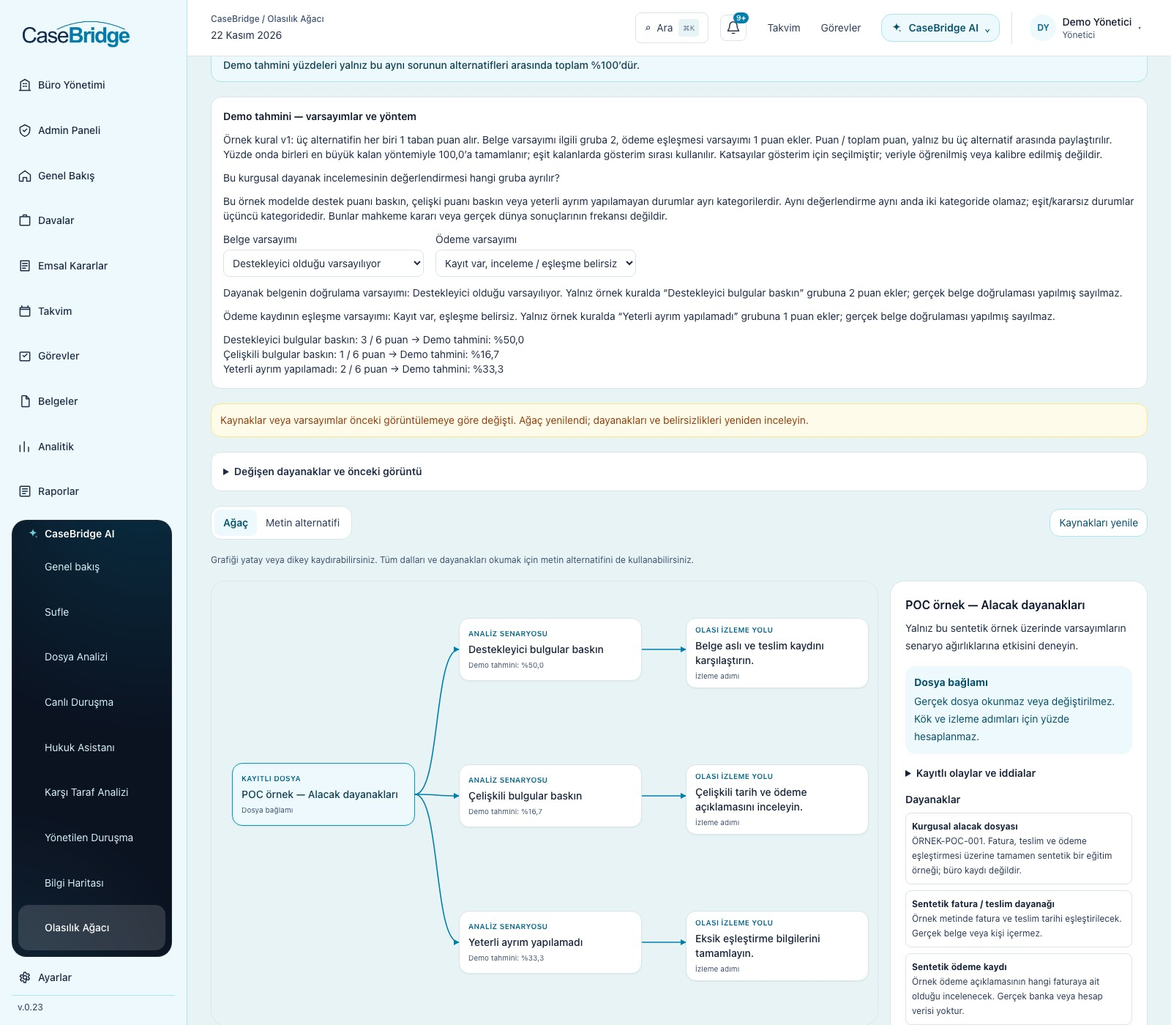
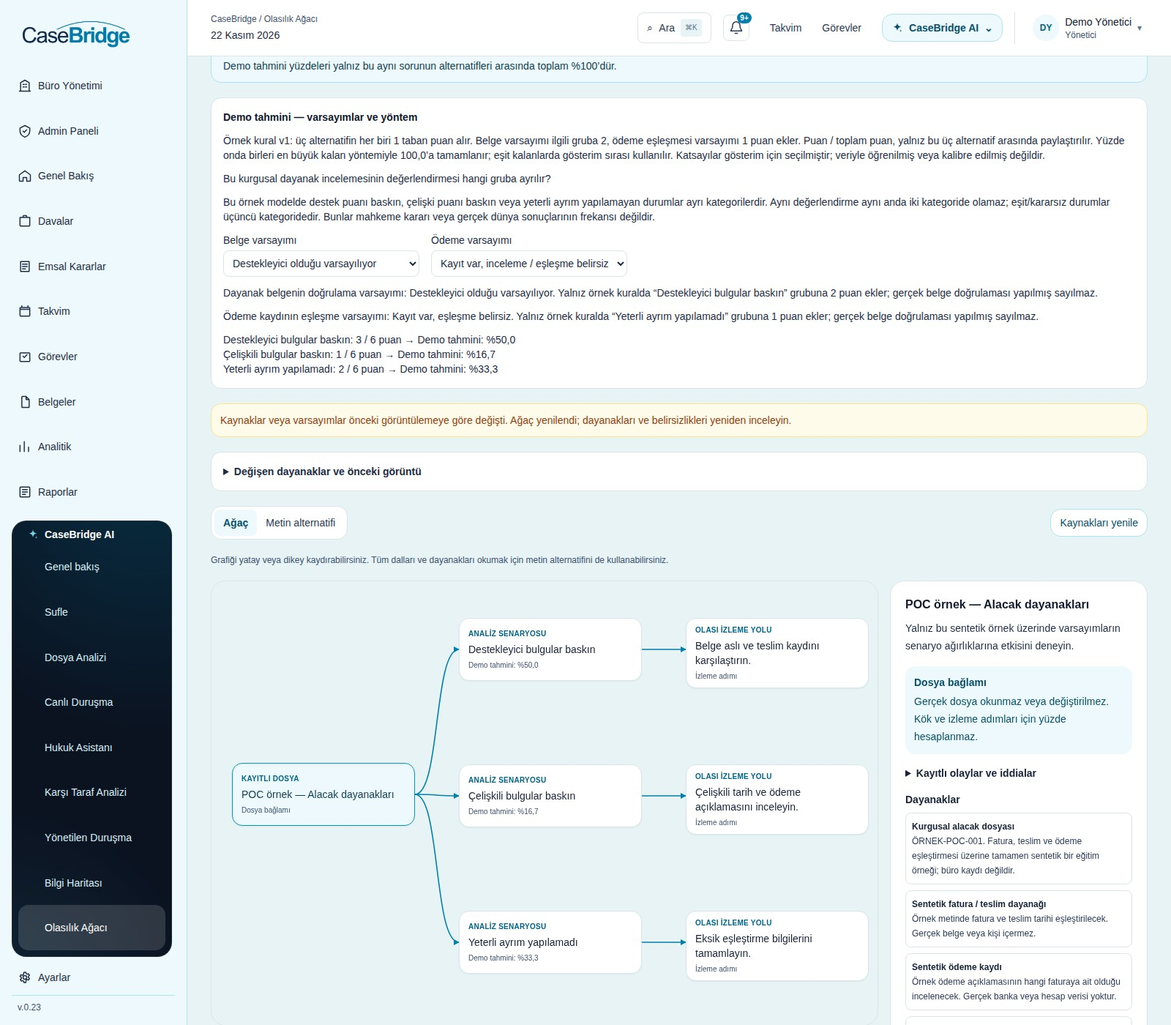
Refresh complete public product gallery v.0.48

diff --git a/web-page/index.html b/web-page/index.html
@@ -17,7 +17,7 @@
   <link rel="stylesheet" href="i18n.css?v=1">
   <link rel="stylesheet" href="pilot-results.css?v=1">
   <link rel="stylesheet" href="brand-refresh.css?v=0.11">
-  <meta name="casebridge-website-version" content="v.0.47">
+  <meta name="casebridge-website-version" content="v.0.48">
   <link rel="stylesheet" href="interactive-story.css?v=0.5">
   <script src="script.js?v=0.41" defer=""></script>
 
@@ -88,7 +88,7 @@
       <div class="business-heading"><div><p class="section-label">CaseBridge’in içinden</p><h2 id="product-title">Davanızı hazırlayın<br>Argümanınızı prova edin</h2></div><p>Bir davayı dört hukuki bakış açısından analiz edin, argümanlarınızı yapay zekâ karşı vekille çalışın ve hukuk asistanına soru sorun</p></div>
       <div class="capability-explorer" data-capability-explorer="">
         <div class="capability-tabs" role="tablist" aria-label="CaseBridge ürün özellikleri" aria-orientation="vertical"><button type="button" role="tab" id="capability-tab-12" aria-controls="capability-panel-12" aria-selected="true" tabindex="0" data-capability-tab=""><strong>Olasılık Ağacı</strong></button><button type="button" role="tab" id="capability-tab-1" aria-controls="capability-panel-1" aria-selected="false" tabindex="-1" data-capability-tab=""><strong>Yapay zekâ ile dava analizi</strong></button><button type="button" role="tab" id="capability-tab-2" aria-controls="capability-panel-2" aria-selected="false" tabindex="-1" data-capability-tab=""><strong>Konuşmayı prova edin</strong></button><button type="button" role="tab" id="capability-tab-3" aria-controls="capability-panel-3" aria-selected="false" tabindex="-1" data-capability-tab=""><strong>Delile itiraz edin</strong></button><button type="button" role="tab" id="capability-tab-4" aria-controls="capability-panel-4" aria-selected="false" tabindex="-1" data-capability-tab=""><strong>Provadan öğrenin</strong></button><button type="button" role="tab" id="capability-tab-5" aria-controls="capability-panel-5" aria-selected="false" tabindex="-1" data-capability-tab=""><strong>Hukuk asistanı</strong></button><button type="button" role="tab" id="capability-tab-6" aria-controls="capability-panel-6" aria-selected="false" tabindex="-1" data-capability-tab=""><strong>Dava ve belge yönetimi</strong></button><button type="button" role="tab" id="capability-tab-7" aria-controls="capability-panel-7" aria-selected="false" tabindex="-1" data-capability-tab=""><strong>Görevler ve duruşma takvimi</strong></button><button type="button" role="tab" id="capability-tab-8" aria-controls="capability-panel-8" aria-selected="false" tabindex="-1" data-capability-tab=""><strong>Raporlar ve devir</strong></button><button type="button" role="tab" id="capability-tab-9" aria-controls="capability-panel-9" aria-selected="false" tabindex="-1" data-capability-tab=""><strong>Hukuki zihin haritası</strong></button><button type="button" role="tab" id="capability-tab-10" aria-controls="capability-panel-10" aria-selected="false" tabindex="-1" data-capability-tab=""><strong>Karşı taraf analizi</strong></button><button type="button" role="tab" id="capability-tab-11" aria-controls="capability-panel-11" aria-selected="false" tabindex="-1" data-capability-tab=""><strong>Yönetilen duruşma</strong></button></div>
-        <div class="capability-screens"><div role="tabpanel" id="capability-panel-12" aria-labelledby="capability-tab-12" tabindex="0"><p class="capability-description">Dosya kayıtlarını ve son tamamlanmış analizdeki alternatif senaryoları dayanakları, koşullu gelişmeleri ve belirsizlikleriyle inceleyin. Kullanılabilir analiz yoksa genel hazırlık yolları açıkça belirtilir. Varsayıma bağlı Demo tahmini destek ağırlıklarını ve hesaplama yöntemini görün. Büro dosyalarındaki bağımsız 0–100 puanlar toplamlanmaz; sentetik örnekte yalnız aynı sorunun alternatifleri %100’e tamamlanır. Hukuki sonuç veya başarı garantisi değildir. <a href="https://app.casebridge.com.tr/ai/olasilik">Uygulamada Olasılık Ağacı’nı aç ↗</a></p><a class="feature-screen-link" data-feature-screen="" data-feature-title="Olasılık Ağacı" href="assets/feature-screens/tr-current/scenario-tree.jpg?v=0.47" target="_blank" rel="noopener" aria-label="Olasılık Ağacı ekran görüntüsünü tam boyutta aç"><img src="assets/feature-screens/tr-current/scenario-tree.jpg?v=0.47" loading="lazy" alt="Gerçek CaseBridge Olasılık Ağacı: kurgusal örnekte Demo tahmini yüzdeleri, varsayımlar ve dayanaklar"><span class="feature-screen-expand">Tam ekran görün ↗</span></a></div><div role="tabpanel" id="capability-panel-1" aria-labelledby="capability-tab-1" tabindex="0" hidden=""><p class="capability-description">Dosyayı araştırmacı, davacı vekili, davalı vekili ve hâkim bakış açılarından inceleyin. Destekleyici argümanları, zayıf yönleri, eksik bilgileri ve önerilen sonraki adımları görün.</p><a class="feature-screen-link" data-feature-screen="" data-feature-title="Yapay zekâ ile dava analizi" href="assets/feature-screens/tr-current/analysis.jpg?v=0.47" target="_blank" rel="noopener" aria-label="Yapay zekâ ile dava analizi ekran görüntüsünü tam boyutta aç"><img src="assets/feature-screens/tr-current/analysis.jpg?v=0.47" loading="lazy" alt="Gerçek CaseBridge uygulaması: Yapay zekâ ile dava analizi — kurgusal örnek veriler"><span class="feature-screen-expand">Tam ekran görün ↗</span></a></div><div role="tabpanel" id="capability-panel-2" aria-labelledby="capability-tab-2" tabindex="0" hidden=""><p class="capability-description">Sizin argümanınız, yapay zekâ karşı tarafın yanıtı ve hâkimin soruları</p><a class="feature-screen-link" data-feature-screen="" data-feature-title="Konuşmayı prova edin" href="assets/feature-screens/tr-current/conversation.jpg?v=0.47" target="_blank" rel="noopener" aria-label="Konuşmayı prova edin ekran görüntüsünü tam boyutta aç"><img src="assets/feature-screens/tr-current/conversation.jpg?v=0.47" loading="lazy" alt="Gerçek CaseBridge uygulaması: Konuşmayı prova edin — kurgusal örnek veriler"><span class="feature-screen-expand">Tam ekran görün ↗</span></a></div><div role="tabpanel" id="capability-panel-3" aria-labelledby="capability-tab-3" tabindex="0" hidden=""><p class="capability-description">İddiayı, itirazı ve yanıtı tek bir tutanakta takip edin.</p><a class="feature-screen-link" data-feature-screen="" data-feature-title="Delile itiraz edin" href="assets/feature-screens/tr-current/evidence.jpg?v=0.47" target="_blank" rel="noopener" aria-label="Delile itiraz edin ekran görüntüsünü tam boyutta aç"><img src="assets/feature-screens/tr-current/evidence.jpg?v=0.47" loading="lazy" alt="Gerçek CaseBridge uygulaması: Delile itiraz edin — kurgusal örnek veriler"><span class="feature-screen-expand">Tam ekran görün ↗</span></a></div><div role="tabpanel" id="capability-panel-4" aria-labelledby="capability-tab-4" tabindex="0" hidden=""><p class="capability-description">Delil kullanımını, itirazları ve sonraki hazırlık adımlarını inceleyin.</p><a class="feature-screen-link" data-feature-screen="" data-feature-title="Provadan öğrenin" href="assets/feature-screens/tr-current/evaluation.jpg?v=0.47" target="_blank" rel="noopener" aria-label="Provadan öğrenin ekran görüntüsünü tam boyutta aç"><img src="assets/feature-screens/tr-current/evaluation.jpg?v=0.47" loading="lazy" alt="Gerçek CaseBridge uygulaması: Provadan öğrenin — kurgusal örnek veriler"><span class="feature-screen-expand">Tam ekran görün ↗</span></a></div><div role="tabpanel" id="capability-panel-5" aria-labelledby="capability-tab-5" tabindex="0" hidden=""><p class="capability-description">Hukuki sorularınızı ayrı bir sohbette sorun; hazırlığınız ilerledikçe önceki konuşmalara geri dönün</p><a class="feature-screen-link" data-feature-screen="" data-feature-title="Hukuk asistanı" href="assets/feature-screens/tr-current/assistant.jpg?v=0.47" target="_blank" rel="noopener" aria-label="Hukuk asistanı ekran görüntüsünü tam boyutta aç"><img src="assets/feature-screens/tr-current/assistant.jpg?v=0.47" loading="lazy" alt="Gerçek CaseBridge uygulaması: Hukuk asistanı — kurgusal örnek veriler"><span class="feature-screen-expand">Tam ekran görün ↗</span></a></div><div role="tabpanel" id="capability-panel-6" aria-labelledby="capability-tab-6" tabindex="0" hidden=""><p class="capability-description">Tarafları, dava ayrıntılarını, yüklenen belgeleri ve tarihli gelişmeleri tek bir dava çalışma alanında tutun</p><a class="feature-screen-link" data-feature-screen="" data-feature-title="Dava ve belge yönetimi" href="assets/feature-screens/tr-current/case-documents.jpg?v=0.47" target="_blank" rel="noopener" aria-label="Dava ve belge yönetimi ekran görüntüsünü tam boyutta aç"><img src="assets/feature-screens/tr-current/case-documents.jpg?v=0.47" loading="lazy" alt="Gerçek CaseBridge uygulaması: Dava ve belge yönetimi — kurgusal örnek veriler"><span class="feature-screen-expand">Tam ekran görün ↗</span></a></div><div role="tabpanel" id="capability-panel-7" aria-labelledby="capability-tab-7" tabindex="0" hidden=""><p class="capability-description">Davaya bağlı görevler oluşturun, son tarih belirleyin ve tamamlanmasını takip edin. Duruşmaları ve görev tarihlerini takvimde görün.</p><a class="feature-screen-link" data-feature-screen="" data-feature-title="Görevler ve duruşma takvimi" href="assets/feature-screens/tr-current/calendar.jpg?v=0.47" target="_blank" rel="noopener" aria-label="Görevler ve duruşma takvimi ekran görüntüsünü tam boyutta aç"><img src="assets/feature-screens/tr-current/calendar.jpg?v=0.47" loading="lazy" alt="Gerçek CaseBridge uygulaması: Görevler ve duruşma takvimi — kurgusal örnek veriler"><span class="feature-screen-expand">Tam ekran görün ↗</span></a></div><div role="tabpanel" id="capability-panel-8" aria-labelledby="capability-tab-8" tabindex="0" hidden=""><p class="capability-description">Kaydedilen sonuçları ve büro analitiğini inceleyin. Başka bir avukatın dosyayı anlamasına yardımcı olacak bir dava devir özeti oluşturun.</p><a class="feature-screen-link" data-feature-screen="" data-feature-title="Raporlar ve devir" href="assets/feature-screens/tr-current/reports.jpg?v=0.47" target="_blank" rel="noopener" aria-label="Raporlar ve devir ekran görüntüsünü tam boyutta aç"><img src="assets/feature-screens/tr-current/reports.jpg?v=0.47" loading="lazy" alt="Gerçek CaseBridge uygulaması: Raporlar ve devir — kurgusal örnek veriler"><span class="feature-screen-expand">Tam ekran görün ↗</span></a></div><div role="tabpanel" id="capability-panel-9" aria-labelledby="capability-tab-9" tabindex="0" hidden=""><p class="capability-description">Yargıtay kararlarında birlikte anılan kanun maddelerini bilgi haritasında inceleyin. Bir maddeyi seçerek bağlantılı maddeleri ve karar bağlamını görün.</p><a class="feature-screen-link" data-feature-screen="" data-feature-title="Hukuki zihin haritası" href="assets/feature-screens/tr-current/knowledge-map.jpg?v=0.47" target="_blank" rel="noopener" aria-label="Hukuki zihin haritası ekran görüntüsünü tam boyutta aç"><img src="assets/feature-screens/tr-current/knowledge-map.jpg?v=0.47" alt="Gerçek CaseBridge uygulaması: Hukuki zihin haritası — yalıtılmış örnek kurulum" loading="lazy"><span class="feature-screen-expand">Tam ekran görün ↗</span></a></div><div role="tabpanel" id="capability-panel-10" aria-labelledby="capability-tab-10" tabindex="0" hidden=""><p class="capability-description">Davacı veya davalı açısından dosyadaki olası açıkları, karşı argümanları ve hukuki hamleleri kanun dayanaklarıyla birlikte inceleyin.</p><a class="feature-screen-link" data-feature-screen="" data-feature-title="Karşı taraf analizi" href="assets/feature-screens/tr-current/counter-analysis.jpg?v=0.47" target="_blank" rel="noopener" aria-label="Karşı taraf analizi ekran görüntüsünü tam boyutta aç"><img src="assets/feature-screens/tr-current/counter-analysis.jpg?v=0.47" alt="Gerçek CaseBridge uygulaması: Karşı taraf analizi — yalıtılmış örnek kurulum" loading="lazy"><span class="feature-screen-expand">Tam ekran görün ↗</span></a></div><div role="tabpanel" id="capability-panel-11" aria-labelledby="capability-tab-11" tabindex="0" hidden=""><p class="capability-description">Hâkim, iki vekil ve bilirkişinin yer aldığı duruşmada rol seçin. Sahneyi ilerletin, müdahaleleri deneyin ve rehberin sonraki hamle önerilerini inceleyin.</p><a class="feature-screen-link" data-feature-screen="" data-feature-title="Yönetilen duruşma" href="assets/feature-screens/tr-current/directed-trial.jpg?v=0.47" target="_blank" rel="noopener" aria-label="Yönetilen duruşma ekran görüntüsünü tam boyutta aç"><img src="assets/feature-screens/tr-current/directed-trial.jpg?v=0.47" alt="Gerçek CaseBridge uygulaması: Yönetilen duruşma — yalıtılmış örnek kurulum" loading="lazy"><span class="feature-screen-expand">Tam ekran görün ↗</span></a></div></div>
+        <div class="capability-screens"><div role="tabpanel" id="capability-panel-12" aria-labelledby="capability-tab-12" tabindex="0"><p class="capability-description">Dosya kayıtlarını ve son tamamlanmış analizdeki alternatif senaryoları dayanakları, koşullu gelişmeleri ve belirsizlikleriyle inceleyin. Kullanılabilir analiz yoksa genel hazırlık yolları açıkça belirtilir. Varsayıma bağlı Demo tahmini destek ağırlıklarını ve hesaplama yöntemini görün. Büro dosyalarındaki bağımsız 0–100 puanlar toplamlanmaz; sentetik örnekte yalnız aynı sorunun alternatifleri %100’e tamamlanır. Hukuki sonuç veya başarı garantisi değildir. <a href="https://app.casebridge.com.tr/ai/olasilik">Uygulamada Olasılık Ağacı’nı aç ↗</a></p><a class="feature-screen-link" data-feature-screen="" data-feature-title="Olasılık Ağacı" href="assets/feature-screens/tr-current/scenario-tree.jpg?v=0.48" target="_blank" rel="noopener" aria-label="Olasılık Ağacı ekran görüntüsünü tam boyutta aç"><img src="assets/feature-screens/tr-current/scenario-tree.jpg?v=0.48" loading="lazy" alt="Gerçek CaseBridge Olasılık Ağacı: kurgusal örnekte Demo tahmini yüzdeleri, varsayımlar ve dayanaklar"><span class="feature-screen-expand">Tam ekran görün ↗</span></a></div><div role="tabpanel" id="capability-panel-1" aria-labelledby="capability-tab-1" tabindex="0" hidden=""><p class="capability-description">Dosyayı araştırmacı, davacı vekili, davalı vekili ve hâkim bakış açılarından inceleyin. Destekleyici argümanları, zayıf yönleri, eksik bilgileri ve önerilen sonraki adımları görün.</p><a class="feature-screen-link" data-feature-screen="" data-feature-title="Yapay zekâ ile dava analizi" href="assets/feature-screens/tr-current/analysis.jpg?v=0.48" target="_blank" rel="noopener" aria-label="Yapay zekâ ile dava analizi ekran görüntüsünü tam boyutta aç"><img src="assets/feature-screens/tr-current/analysis.jpg?v=0.48" loading="lazy" alt="Gerçek CaseBridge uygulaması: Yapay zekâ ile dava analizi — kurgusal örnek veriler"><span class="feature-screen-expand">Tam ekran görün ↗</span></a></div><div role="tabpanel" id="capability-panel-2" aria-labelledby="capability-tab-2" tabindex="0" hidden=""><p class="capability-description">Sizin argümanınız, yapay zekâ karşı tarafın yanıtı ve hâkimin soruları</p><a class="feature-screen-link" data-feature-screen="" data-feature-title="Konuşmayı prova edin" href="assets/feature-screens/tr-current/conversation.jpg?v=0.48" target="_blank" rel="noopener" aria-label="Konuşmayı prova edin ekran görüntüsünü tam boyutta aç"><img src="assets/feature-screens/tr-current/conversation.jpg?v=0.48" loading="lazy" alt="Gerçek CaseBridge uygulaması: Konuşmayı prova edin — kurgusal örnek veriler"><span class="feature-screen-expand">Tam ekran görün ↗</span></a></div><div role="tabpanel" id="capability-panel-3" aria-labelledby="capability-tab-3" tabindex="0" hidden=""><p class="capability-description">İddiayı, itirazı ve yanıtı tek bir tutanakta takip edin.</p><a class="feature-screen-link" data-feature-screen="" data-feature-title="Delile itiraz edin" href="assets/feature-screens/tr-current/evidence.jpg?v=0.48" target="_blank" rel="noopener" aria-label="Delile itiraz edin ekran görüntüsünü tam boyutta aç"><img src="assets/feature-screens/tr-current/evidence.jpg?v=0.48" loading="lazy" alt="Gerçek CaseBridge uygulaması: Delile itiraz edin — kurgusal örnek veriler"><span class="feature-screen-expand">Tam ekran görün ↗</span></a></div><div role="tabpanel" id="capability-panel-4" aria-labelledby="capability-tab-4" tabindex="0" hidden=""><p class="capability-description">Delil kullanımını, itirazları ve sonraki hazırlık adımlarını inceleyin.</p><a class="feature-screen-link" data-feature-screen="" data-feature-title="Provadan öğrenin" href="assets/feature-screens/tr-current/evaluation.jpg?v=0.48" target="_blank" rel="noopener" aria-label="Provadan öğrenin ekran görüntüsünü tam boyutta aç"><img src="assets/feature-screens/tr-current/evaluation.jpg?v=0.48" loading="lazy" alt="Gerçek CaseBridge uygulaması: Provadan öğrenin — kurgusal örnek veriler"><span class="feature-screen-expand">Tam ekran görün ↗</span></a></div><div role="tabpanel" id="capability-panel-5" aria-labelledby="capability-tab-5" tabindex="0" hidden=""><p class="capability-description">Hukuki sorularınızı ayrı bir sohbette sorun; hazırlığınız ilerledikçe önceki konuşmalara geri dönün</p><a class="feature-screen-link" data-feature-screen="" data-feature-title="Hukuk asistanı" href="assets/feature-screens/tr-current/assistant.jpg?v=0.48" target="_blank" rel="noopener" aria-label="Hukuk asistanı ekran görüntüsünü tam boyutta aç"><img src="assets/feature-screens/tr-current/assistant.jpg?v=0.48" loading="lazy" alt="Gerçek CaseBridge uygulaması: Hukuk asistanı — kurgusal örnek veriler"><span class="feature-screen-expand">Tam ekran görün ↗</span></a></div><div role="tabpanel" id="capability-panel-6" aria-labelledby="capability-tab-6" tabindex="0" hidden=""><p class="capability-description">Tarafları, dava ayrıntılarını, yüklenen belgeleri ve tarihli gelişmeleri tek bir dava çalışma alanında tutun</p><a class="feature-screen-link" data-feature-screen="" data-feature-title="Dava ve belge yönetimi" href="assets/feature-screens/tr-current/case-documents.jpg?v=0.48" target="_blank" rel="noopener" aria-label="Dava ve belge yönetimi ekran görüntüsünü tam boyutta aç"><img src="assets/feature-screens/tr-current/case-documents.jpg?v=0.48" loading="lazy" alt="Gerçek CaseBridge uygulaması: Dava ve belge yönetimi — kurgusal örnek veriler"><span class="feature-screen-expand">Tam ekran görün ↗</span></a></div><div role="tabpanel" id="capability-panel-7" aria-labelledby="capability-tab-7" tabindex="0" hidden=""><p class="capability-description">Davaya bağlı görevler oluşturun, son tarih belirleyin ve tamamlanmasını takip edin. Duruşmaları ve görev tarihlerini takvimde görün.</p><a class="feature-screen-link" data-feature-screen="" data-feature-title="Görevler ve duruşma takvimi" href="assets/feature-screens/tr-current/calendar.jpg?v=0.48" target="_blank" rel="noopener" aria-label="Görevler ve duruşma takvimi ekran görüntüsünü tam boyutta aç"><img src="assets/feature-screens/tr-current/calendar.jpg?v=0.48" loading="lazy" alt="Gerçek CaseBridge uygulaması: Görevler ve duruşma takvimi — kurgusal örnek veriler"><span class="feature-screen-expand">Tam ekran görün ↗</span></a></div><div role="tabpanel" id="capability-panel-8" aria-labelledby="capability-tab-8" tabindex="0" hidden=""><p class="capability-description">Kaydedilen sonuçları ve büro analitiğini inceleyin. Başka bir avukatın dosyayı anlamasına yardımcı olacak bir dava devir özeti oluşturun.</p><a class="feature-screen-link" data-feature-screen="" data-feature-title="Raporlar ve devir" href="assets/feature-screens/tr-current/reports.jpg?v=0.48" target="_blank" rel="noopener" aria-label="Raporlar ve devir ekran görüntüsünü tam boyutta aç"><img src="assets/feature-screens/tr-current/reports.jpg?v=0.48" loading="lazy" alt="Gerçek CaseBridge uygulaması: Raporlar ve devir — kurgusal örnek veriler"><span class="feature-screen-expand">Tam ekran görün ↗</span></a></div><div role="tabpanel" id="capability-panel-9" aria-labelledby="capability-tab-9" tabindex="0" hidden=""><p class="capability-description">Yargıtay kararlarında birlikte anılan kanun maddelerini bilgi haritasında inceleyin. Bir maddeyi seçerek bağlantılı maddeleri ve karar bağlamını görün.</p><a class="feature-screen-link" data-feature-screen="" data-feature-title="Hukuki zihin haritası" href="assets/feature-screens/tr-current/knowledge-map.jpg?v=0.48" target="_blank" rel="noopener" aria-label="Hukuki zihin haritası ekran görüntüsünü tam boyutta aç"><img src="assets/feature-screens/tr-current/knowledge-map.jpg?v=0.48" alt="Gerçek CaseBridge uygulaması: Hukuki zihin haritası — yalıtılmış örnek kurulum" loading="lazy"><span class="feature-screen-expand">Tam ekran görün ↗</span></a></div><div role="tabpanel" id="capability-panel-10" aria-labelledby="capability-tab-10" tabindex="0" hidden=""><p class="capability-description">Davacı veya davalı açısından dosyadaki olası açıkları, karşı argümanları ve hukuki hamleleri kanun dayanaklarıyla birlikte inceleyin.</p><a class="feature-screen-link" data-feature-screen="" data-feature-title="Karşı taraf analizi" href="assets/feature-screens/tr-current/counter-analysis.jpg?v=0.48" target="_blank" rel="noopener" aria-label="Karşı taraf analizi ekran görüntüsünü tam boyutta aç"><img src="assets/feature-screens/tr-current/counter-analysis.jpg?v=0.48" alt="Gerçek CaseBridge uygulaması: Karşı taraf analizi — yalıtılmış örnek kurulum" loading="lazy"><span class="feature-screen-expand">Tam ekran görün ↗</span></a></div><div role="tabpanel" id="capability-panel-11" aria-labelledby="capability-tab-11" tabindex="0" hidden=""><p class="capability-description">Hâkim, iki vekil ve bilirkişinin yer aldığı duruşmada rol seçin. Sahneyi ilerletin, müdahaleleri deneyin ve rehberin sonraki hamle önerilerini inceleyin.</p><a class="feature-screen-link" data-feature-screen="" data-feature-title="Yönetilen duruşma" href="assets/feature-screens/tr-current/directed-trial.jpg?v=0.48" target="_blank" rel="noopener" aria-label="Yönetilen duruşma ekran görüntüsünü tam boyutta aç"><img src="assets/feature-screens/tr-current/directed-trial.jpg?v=0.48" alt="Gerçek CaseBridge uygulaması: Yönetilen duruşma — yalıtılmış örnek kurulum" loading="lazy"><span class="feature-screen-expand">Tam ekran görün ↗</span></a></div></div>
       </div>
       <dialog id="feature-screen-dialog" class="actual-ai-dialog feature-screen-dialog" aria-labelledby="feature-screen-title"><div class="actual-ai-dialog-header"><span id="feature-screen-title" data-feature-title="">CaseBridge.</span><button type="button" data-feature-close="" aria-label="Ekran görüntüsünü kapat">×</button></div><img alt=""></dialog>
       <p class="image-note">Gerçek CaseBridge uygulamasından, yalnızca kurgusal örnek verilerle alınmış Türkçe ekran görüntüleri. Eğitim puanları gerçek dava sonuçlarını öngörmez.</p><details class="story-detail"><summary>Ürünü keşfedin: analiz, prova ve dava yönetimi<span aria-hidden="true">+</span></summary><div class="story-detail-body"><section class="intro section wrap" id="approach">
@@ -109,8 +109,8 @@
       <div class="section-label"><span class="tiny-square"></span> Platform</div>
       <div class="platform-heading"><h2>Duruşmadan önce<br><span>prova yapmaya zaman ayırın</span></h2><p>Örnek bir davada taraf seçin, delil sunun ve karşı argümanlara yanıt verin. Oturumun sonunda güçlü yönlerinizi ve gelişmeye açık alanlarınızı inceleyin.</p></div>
       <div class="screen-tabs" role="tablist" aria-label="Uygulama ekran görüntüleri"><button id="tab-courtroom" role="tab" aria-selected="true" aria-controls="screen-courtroom" tabindex="0">Duruşma simülasyonu <span>↗</span></button><button id="tab-evaluation" role="tab" aria-selected="false" aria-controls="screen-evaluation" tabindex="-1">Değerlendirme ve geri bildirim <span>↗</span></button></div>
-      <div class="screen-panel" id="screen-courtroom" role="tabpanel" aria-labelledby="tab-courtroom"><div class="screen-frame"><div class="window-bar"><span><i></i><i></i><i></i></span><span>CaseBridge / Duruşma simülasyonu</span><span>ÜRÜN EKRAN GÖRÜNTÜSÜ</span></div><img src="assets/feature-screens/tr-current/conversation.jpg?v=0.47" alt="Örnek bir CaseBridge duruşması: gizli dava notları, delil dosyası ve duruşma tutanağı" loading="lazy"></div><div class="screen-description"><h3>Duruşma salonuna girmeden önce prova yapın</h3><p>Davacı ya da davalı vekili rolünü üstlenin. Delil sunun, yapay zekâ karşı tarafa yanıt verin ve altı aşamalı kurgusal bir duruşmada stratejinizi çalışın.</p></div></div>
-      <div class="screen-panel" id="screen-evaluation" role="tabpanel" aria-labelledby="tab-evaluation" hidden=""><div class="screen-frame"><div class="window-bar"><span><i></i><i></i><i></i></span><span>CaseBridge / Eğitim değerlendirmesi</span><span>ÜRÜN EKRAN GÖRÜNTÜSÜ</span></div><img src="assets/feature-screens/tr-current/evaluation.jpg?v=0.47" alt="CaseBridge eğitim değerlendirmesi: delil kullanımı, itiraz ve strateji puanları, güçlü yönler ve geliştirme önerileri" loading="lazy"></div><div class="screen-description"><h3>Her provadan öğrenin</h3><p>Delil kullanımı, karşı argümanlar ve duruşma stratejisi üzerine geri bildirim alın. Ekrandaki puan bir eğitim değerlendirmesidir; gerçek bir davanın sonucunu öngörmez.</p></div></div>
+      <div class="screen-panel" id="screen-courtroom" role="tabpanel" aria-labelledby="tab-courtroom"><div class="screen-frame"><div class="window-bar"><span><i></i><i></i><i></i></span><span>CaseBridge / Duruşma simülasyonu</span><span>ÜRÜN EKRAN GÖRÜNTÜSÜ</span></div><img src="assets/feature-screens/tr-current/conversation.jpg?v=0.48" alt="Örnek bir CaseBridge duruşması: gizli dava notları, delil dosyası ve duruşma tutanağı" loading="lazy"></div><div class="screen-description"><h3>Duruşma salonuna girmeden önce prova yapın</h3><p>Davacı ya da davalı vekili rolünü üstlenin. Delil sunun, yapay zekâ karşı tarafa yanıt verin ve altı aşamalı kurgusal bir duruşmada stratejinizi çalışın.</p></div></div>
+      <div class="screen-panel" id="screen-evaluation" role="tabpanel" aria-labelledby="tab-evaluation" hidden=""><div class="screen-frame"><div class="window-bar"><span><i></i><i></i><i></i></span><span>CaseBridge / Eğitim değerlendirmesi</span><span>ÜRÜN EKRAN GÖRÜNTÜSÜ</span></div><img src="assets/feature-screens/tr-current/evaluation.jpg?v=0.48" alt="CaseBridge eğitim değerlendirmesi: delil kullanımı, itiraz ve strateji puanları, güçlü yönler ve geliştirme önerileri" loading="lazy"></div><div class="screen-description"><h3>Her provadan öğrenin</h3><p>Delil kullanımı, karşı argümanlar ve duruşma stratejisi üzerine geri bildirim alın. Ekrandaki puan bir eğitim değerlendirmesidir; gerçek bir davanın sonucunu öngörmez.</p></div></div>
       <p class="image-note">Ekran görüntüleri, CaseBridge uygulamasındaki kurgusal bir örnek duruşmadan alınmıştır</p>
     </section><section class="workspace-section section wrap"><div class="workspace-title"><div class="section-label"><span class="tiny-square"></span> Dava yönetimi</div><h2>Büronuzun<br><span>günlük çalışma alanı</span></h2></div><div class="workspace-features"><article><h3>Davalar ve belgeler</h3><p>Tarafları, belgeleri ve dava geçmişini tek yerde tutun</p></article><article><h3>Takvim ve görevler</h3><p>Duruşma tarihlerini ve görevleri birlikte takip edin</p></article><article><h3>Büro analitiği</h3><p>Dava dağılımlarını ve kaydedilen sonuçları incele</p></article><article><h3>Dava devri</h3><p>Dava geçmişini ve sonraki adımları bir araya getirin</p></article></div></section></div></details>
     </section>

diff --git a/scripts/tests/test_generated_gallery.py b/scripts/tests/test_generated_gallery.py
@@ -1,0 +1,18 @@
+import hashlib
+import json
+from pathlib import Path
+import unittest
+
+class GeneratedGalleryTests(unittest.TestCase):
+    def test_complete_versioned_gallery_bytes(self):
+        root = Path(__file__).resolve().parents[2]
[1 lines of base64/hex data omitted]
+        ledger = json.loads((root/'web-page/assets/feature-screens/tr-current/AUTO_CAPTURE.md').read_text())
+        self.assertEqual(ledger['hashes'], expected)
+        self.assertEqual(json.loads((root/'web-page/website-version.json').read_text())['version'], 'v.0.48')
+        for name, digest in expected.items():
+            self.assertEqual(hashlib.sha256((root/'web-page'/name).read_bytes()).hexdigest(), digest)
+        from scripts.tests.test_marketing_default import MarketingDefaultAcceptance
+        result = unittest.TestResult()
+        unittest.defaultTestLoader.loadTestsFromTestCase(MarketingDefaultAcceptance).run(result)
+        self.assertTrue(result.wasSuccessful(), str(result.errors + result.failures))

diff --git a/web-page/assets/feature-screens/tr-current/AUTO_CAPTURE.md b/web-page/assets/feature-screens/tr-current/AUTO_CAPTURE.md
@@ -1,0 +1,149 @@
+{
+  "app": {
+    "version": "0.23",
+    "commit": "f625960cadd4e4c29985fa26fcb4914d4ff326b3"
+  },
+  "marketingVersion": "v.0.48",
+  "sourceMarketingVersion": "v.0.47",
+  "hashes": {
[12 lines of base64/hex data omitted]
+  },
+  "mode": "public-served-frontend-with-isolated-synthetic-api",
+  "captures": [
+    {
+      "name": "analysis",
+      "route": "/davalar/934e9c30-37e4-4c96-ad80-4ae55b31ab29?sekme=ai",
+      "viewport": {
+        "width": 1600,
+        "height": 1100
+      },
[1 lines of base64/hex data omitted]
+    },
+    {
+      "name": "evaluation",
+      "route": "/ai/durusma/oturum/6ab8eda5-f7a9-5f37-bc4d-0968f040563c",
+      "viewport": {
+        "width": 1600,
+        "height": 1100
+      },
[1 lines of base64/hex data omitted]
+    },
+    {
+      "name": "conversation",
+      "route": "/ai/durusma/oturum/6ab8eda5-f7a9-5f37-bc4d-0968f040563c",
+      "viewport": {
+        "width": 1600,
+        "height": 1100
+      },
[1 lines of base64/hex data omitted]
+    },
+    {
+      "name": "evidence",
+      "route": "/ai/durusma/oturum/6ab8eda5-f7a9-5f37-bc4d-0968f040563c",
+      "viewport": {
+        "width": 1600,
+        "height": 1100
+      },
[1 lines of base64/hex data omitted]
+    },
+    {
+      "name": "assistant",
+      "route": "/ai/sohbet?sohbet=4153adfd-5d7f-5792-916a-76c3a4e4cb9d",
+      "viewport": {
+        "width": 1600,
+        "height": 1100
+      },
[1 lines of base64/hex data omitted]
+    },
+    {
+      "name": "case-documents",
+      "route": "/davalar/934e9c30-37e4-4c96-ad80-4ae55b31ab29",
+      "viewport": {
+        "width": 1600,
+        "height": 1100
+      },
[1 lines of base64/hex data omitted]
+    },
+    {
+      "name": "calendar",
+      "route": "/takvim",
+      "viewport": {
+        "width": 1600,
+        "height": 1100
+      },
[1 lines of base64/hex data omitted]
+    },
+    {
+      "name": "reports",
+      "route": "/raporlar",
+      "viewport": {
+        "width": 1600,
+        "height": 1100
+      },
[1 lines of base64/hex data omitted]
+    },
+    {
+      "name": "knowledge-map",
+      "route": "/ai/harita",
+      "viewport": {
+        "width": 1600,
+        "height": 1100
+      },
[1 lines of base64/hex data omitted]
+    },
+    {
+      "name": "counter-analysis",
+      "route": "/ai/karsi-taraf",
+      "viewport": {
+        "width": 1600,
+        "height": 1100
+      },
[1 lines of base64/hex data omitted]
+    },
+    {
+      "name": "directed-trial",
+      "route": "/ai/yonetmen",
+      "viewport": {
+        "width": 1600,
+        "height": 1100
+      },
[1 lines of base64/hex data omitted]
+    },
+    {
+      "name": "scenario-tree",
+      "route": "/ai/olasilik?ornek=belge-dogrulama",
+      "viewport": {
+        "width": 1600,
+        "height": 1400
+      },
[1 lines of base64/hex data omitted]
+    }
+  ],
+  "proxied_request_count": 73,
[1 lines of base64/hex data omitted]
+  "routes": {
+    "analysis": "/davalar/934e9c30-37e4-4c96-ad80-4ae55b31ab29?sekme=ai",
+    "evaluation": "/ai/durusma/oturum/6ab8eda5-f7a9-5f37-bc4d-0968f040563c",
+    "conversation": "/ai/durusma/oturum/6ab8eda5-f7a9-5f37-bc4d-0968f040563c",
+    "evidence": "/ai/durusma/oturum/6ab8eda5-f7a9-5f37-bc4d-0968f040563c",
+    "assistant": "/ai/sohbet?sohbet=4153adfd-5d7f-5792-916a-76c3a4e4cb9d",
+    "case-documents": "/davalar/934e9c30-37e4-4c96-ad80-4ae55b31ab29",
+    "calendar": "/takvim",
+    "reports": "/raporlar",
+    "knowledge-map": "/ai/harita",
+    "counter-analysis": "/ai/karsi-taraf",
+    "directed-trial": "/ai/yonetmen",
+    "scenario-tree": "/ai/olasilik?ornek=belge-dogrulama"
+  }
+}
